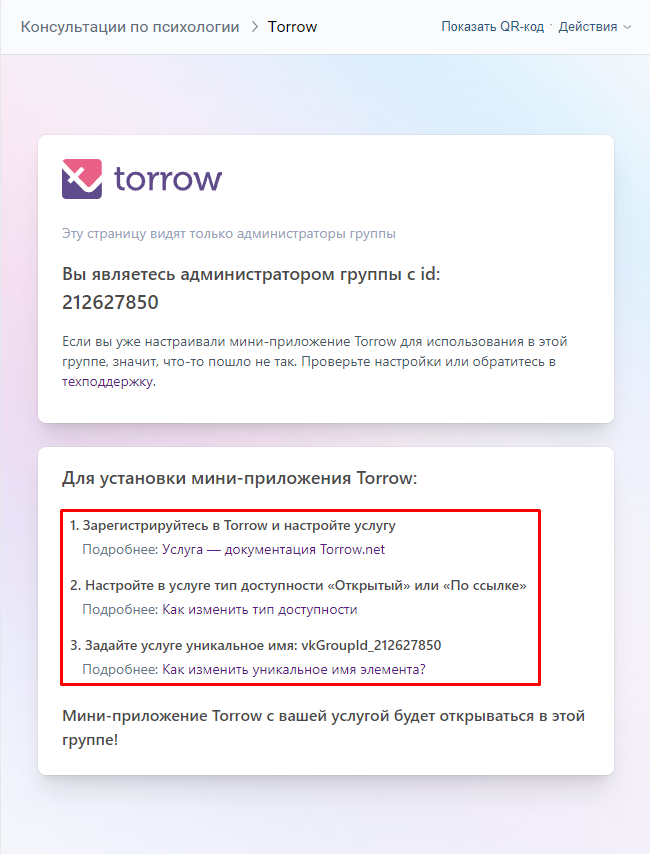
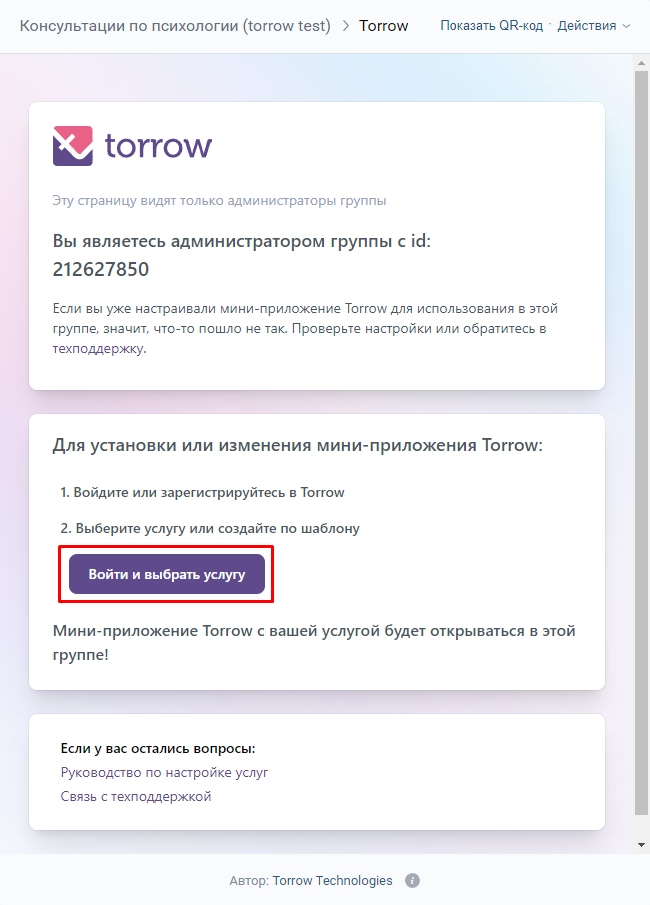
create vk-widget

diff --git a/source/integration/vk-widget.rst b/source/integration/vk-widget.rst
@@ -37,28 +37,44 @@
     :alt: alternative text
     :align: center
 
-5. Нажмите на кнопку записи. При первичном нажатии Вы получите инструкцию по установке мини-приложения torrow.
+5. Нажмите на кнопку записи. При первичном нажатии Вам необходимо авторизоваться и выбрать одну из услуг на аккаунте.
 
 .. figure:: media/vk/vk-widget4.png
     :scale: 60 %
     :alt: alternative text
     :align: center
 
---------------------------------------
+6. После авторизации Вам будет предложено создать **новую** услугу по шаблону или выбрать **одну из существующих**.
 
-.. hint:: Короткая инструкция для мини-приложения:
+.. figure:: media/vk/vk-widget4.1.png
+    :scale: 60 %
+    :alt: alternative text
+    :align: center
 
-    1. Зарегистрируйтесь в Torrow и настройте услугу
+7. После выбора услуги из списка нажмите на кнопку **Выбрать**, чтобы подтвердить действие.
 
-    Подробнее: `Услуга — документация Torrow.net <https://torrownet.readthedocs.io/ru/latest/service/index.html>`_
+.. figure:: media/vk/vk-widget4.2.png
+    :scale: 60 %
+    :alt: alternative text
+    :align: center
 
-    2. Настройте в услуге тип доступности «Открытый» или «По ссылке»
+8. После всех перечисленных действий Вы получите сообщение как на изображении ниже. В Вашей услуге torrow будет проставлен уникальный идентификатор.
 
-    Подробнее: `Как изменить тип доступности <https://torrownet.readthedocs.io/ru/latest/faq/access_type.html>`_
+.. figure:: media/vk/vk-widget4.3.png
+    :scale: 60 %
+    :alt: alternative text
+    :align: center
 
-    3. Задайте услуге уникальное имя: vkGroupId_<Ваше ID>
+9. Ваше мини-приложение torrow для записи полностью настроено. Теперь можете просто вернуться в Ваше сообщество. При необходимости Вы можете изменить надпись и другие параметры кнопки по инструкции ниже.
 
-    Подробнее: `Как изменить уникальное имя элемента? <https://torrownet.readthedocs.io/ru/latest/faq/unique_name.html>`_
+.. figure:: media/vk/vk-widget4.4.png
+    :scale: 60 %
+    :alt: alternative text
+    :align: center
+
+.. hint:: Вы можете редактировать услугу прямо через мини-приложение Вконтакте. Клиент, в свою очередь, будет видеть стандартную форму записи.
+
+-------------------------------------------------
 
 -------------------------------------------------
 Как изменить надпись на кнопке виджета Вконтакте?
